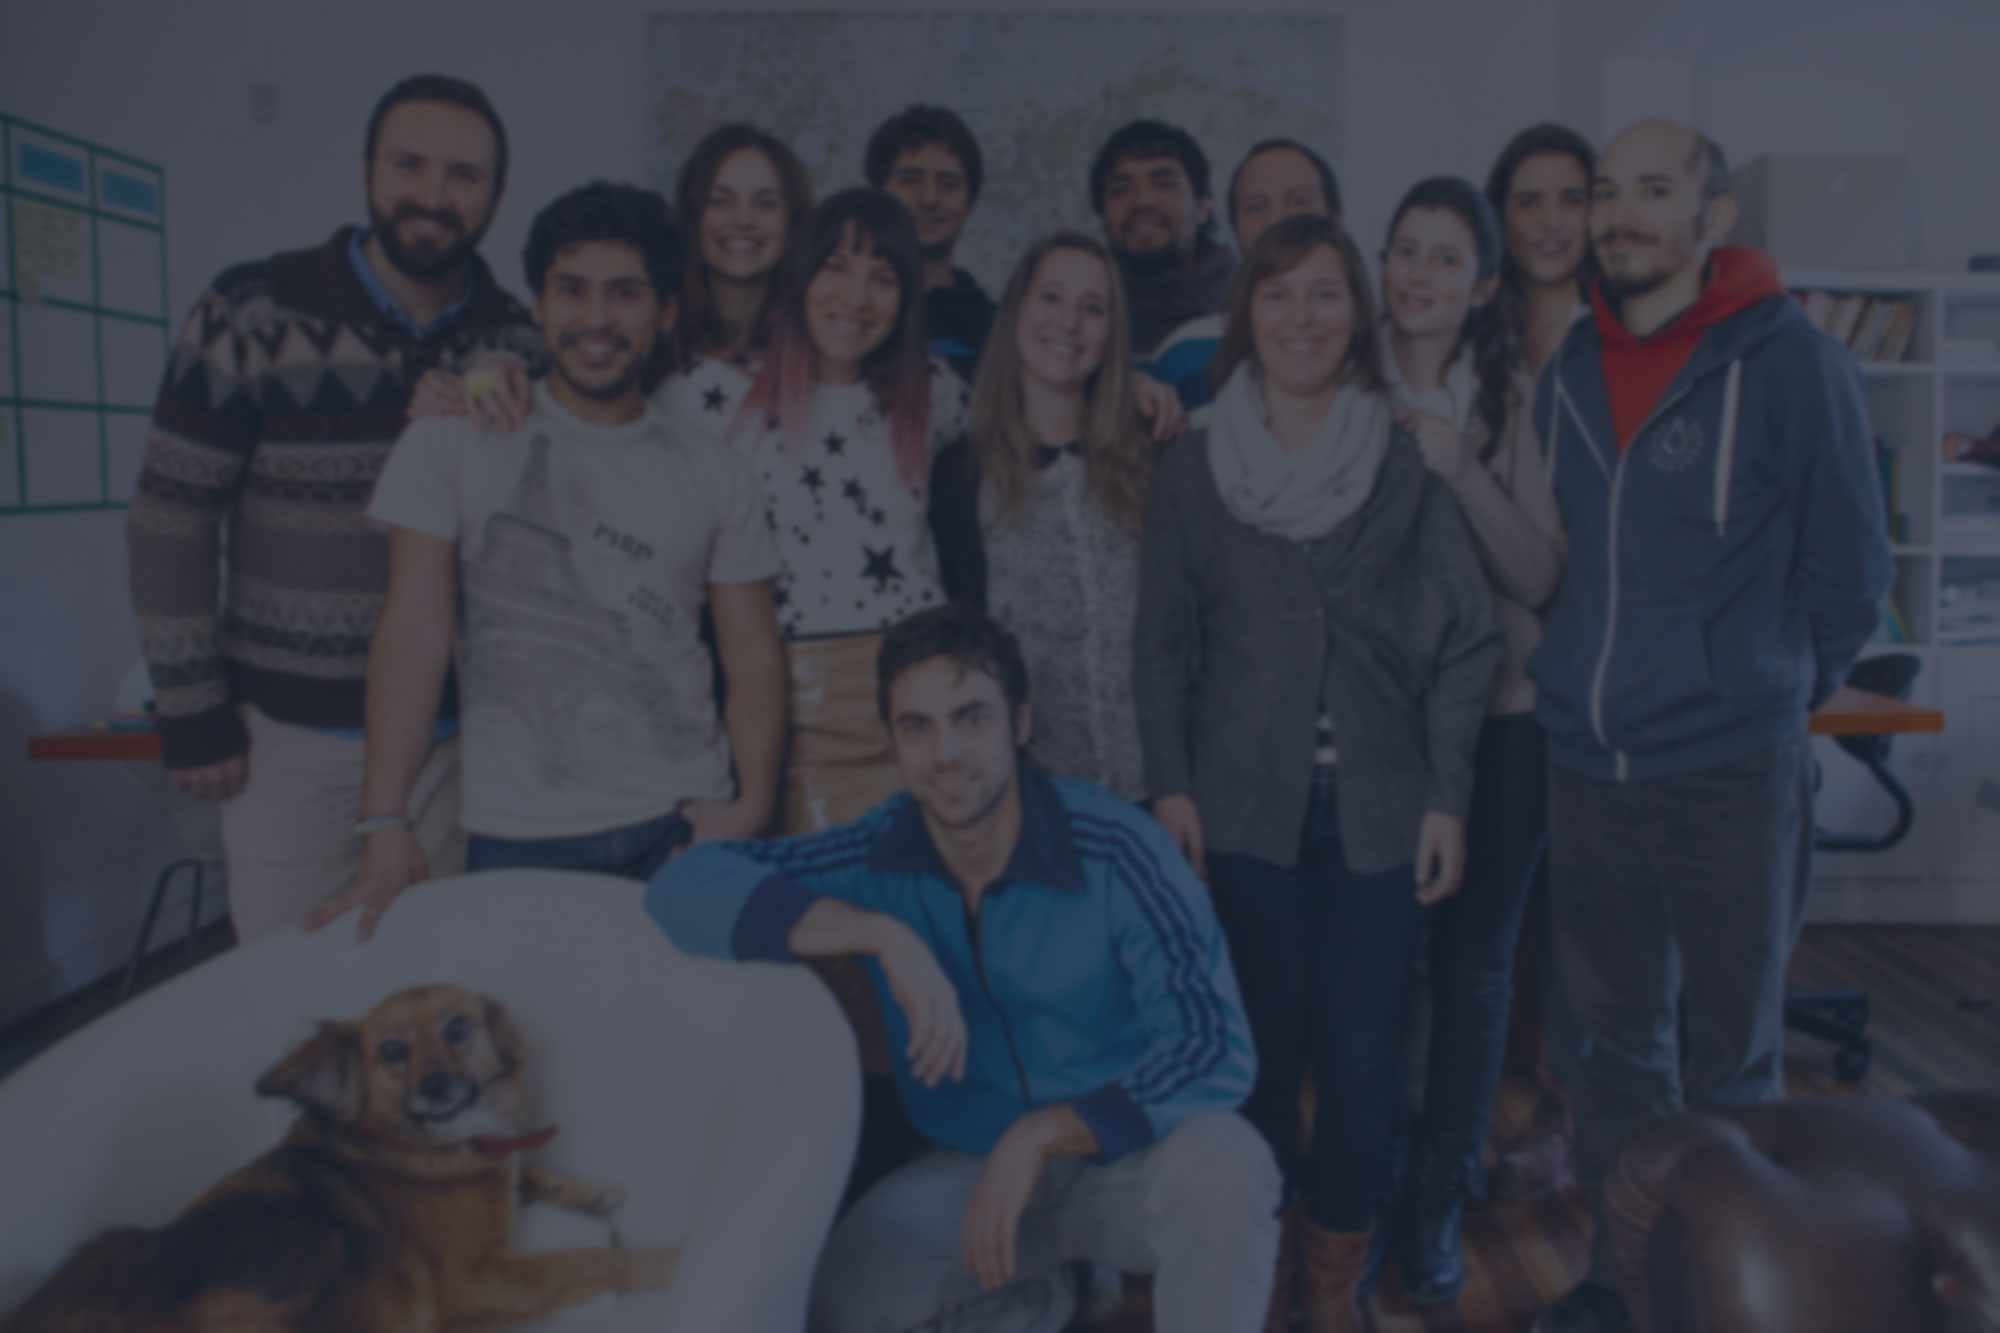
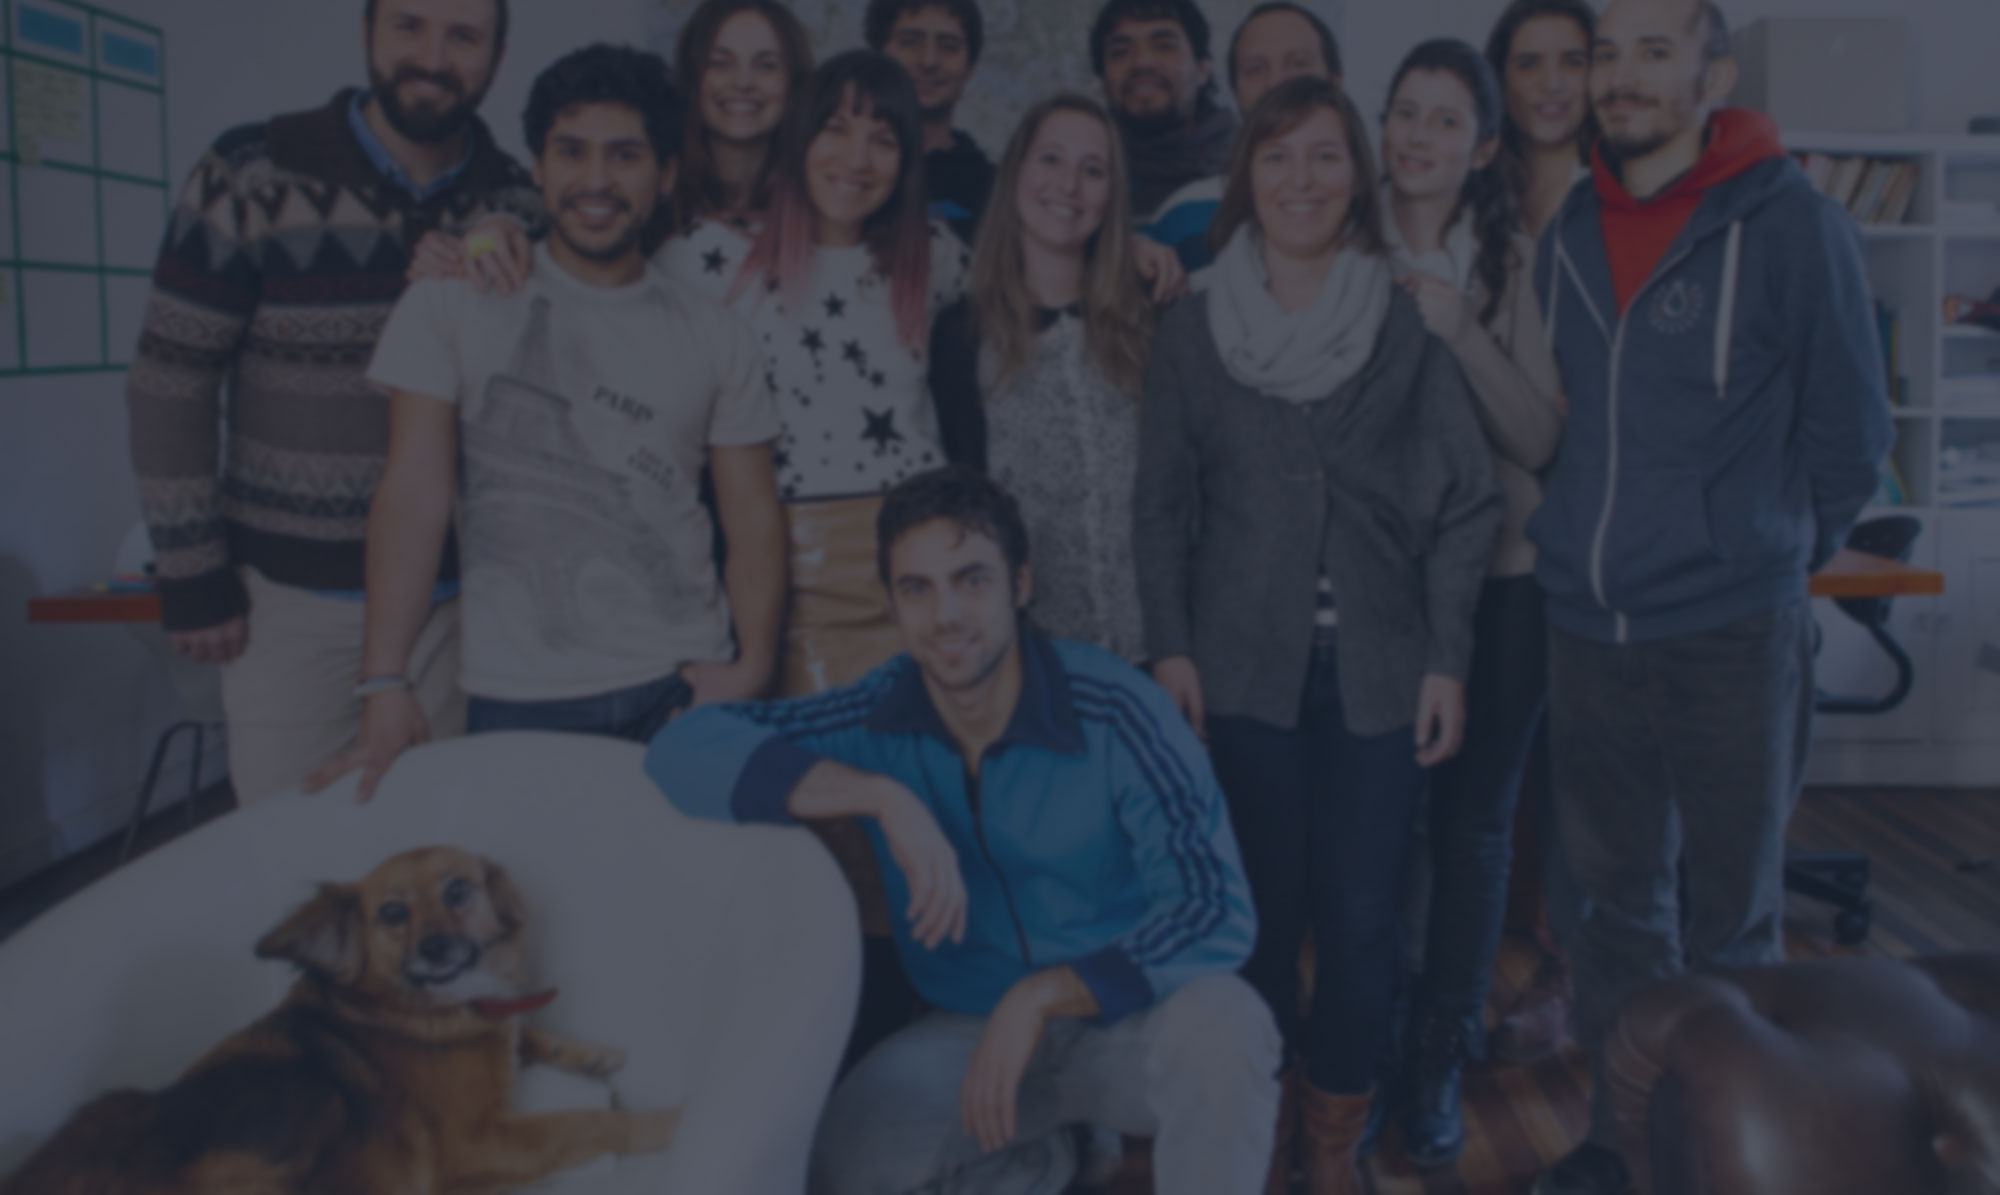
Corta y centra imagen de fondo.

diff --git a/css/main.css b/css/main.css
@@ -445,7 +445,7 @@ border-radius: 0px;
 /*HERO*/
 
 section#inicio {
-  background: url(../img/fondo-inicio.jpg);
+  background: url(../img/fondo-inicio.jpg) top center;
   margin: 0 0 10px;
 }
 
